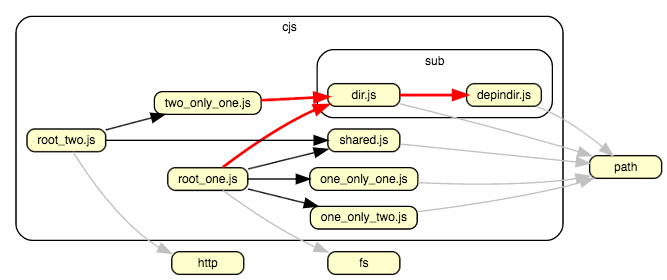
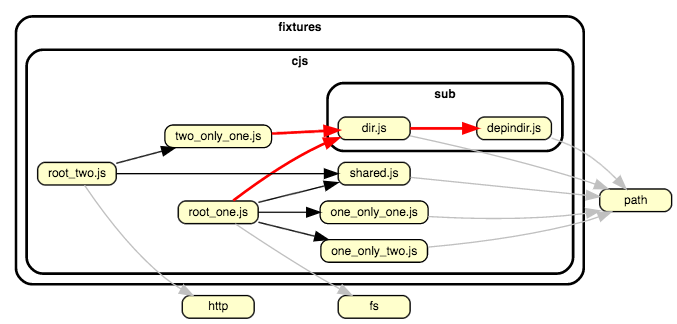
tweaks the dot output for better visual grepping
makes lines of clusters bolder, and uses a bold font for their labels

Changed region(s): [[0.0, 0.0286, 1.0, 1.0], [0.1499, 0.6571, 0.1799, 0.7429]]

diff --git a/test/report.dotReporter.spec.js b/test/report.dotReporter.spec.js
@@ -15,16 +15,16 @@ const elFixture = `digraph "dependency-cruiser output"{
     node [shape=box style="rounded, filled" fillcolor="#ffffcc" height=0.2 fontname=Helvetica fontsize=9]
     edge [color=black arrowhead=normal fontname="Helvetica" fontsize="9"]
 
-    subgraph "cluster_/node_modules" {label="node_modules" style="rounded" subgraph "cluster_/node_modules/somemodule" {label="somemodule" style="rounded" subgraph "cluster_/node_modules/somemodule/node_modules" {label="node_modules" style="rounded" subgraph "cluster_/node_modules/somemodule/node_modules/someothermodule" {label="someothermodule" style="rounded" "node_modules/somemodule/node_modules/someothermodule/main.js" [label="main.js"] } } } }
-    subgraph "cluster_/node_modules" {label="node_modules" style="rounded" subgraph "cluster_/node_modules/somemodule" {label="somemodule" style="rounded" subgraph "cluster_/node_modules/somemodule/src" {label="src" style="rounded" "node_modules/somemodule/src/moar-javascript.js" [label="moar-javascript.js"] } } }
-    subgraph "cluster_/node_modules" {label="node_modules" style="rounded" subgraph "cluster_/node_modules/somemodule" {label="somemodule" style="rounded" subgraph "cluster_/node_modules/somemodule/src" {label="src" style="rounded" "node_modules/somemodule/src/somemodule.js" [label="somemodule.js"] } } }
+    subgraph "cluster_/node_modules" {label="node_modules" fontname="Helvetica-bold" style="rounded,bold" subgraph "cluster_/node_modules/somemodule" {label="somemodule" fontname="Helvetica-bold" style="rounded,bold" subgraph "cluster_/node_modules/somemodule/node_modules" {label="node_modules" fontname="Helvetica-bold" style="rounded,bold" subgraph "cluster_/node_modules/somemodule/node_modules/someothermodule" {label="someothermodule" fontname="Helvetica-bold" style="rounded,bold" "node_modules/somemodule/node_modules/someothermodule/main.js" [label="main.js"] } } } }
+    subgraph "cluster_/node_modules" {label="node_modules" fontname="Helvetica-bold" style="rounded,bold" subgraph "cluster_/node_modules/somemodule" {label="somemodule" fontname="Helvetica-bold" style="rounded,bold" subgraph "cluster_/node_modules/somemodule/src" {label="src" fontname="Helvetica-bold" style="rounded,bold" "node_modules/somemodule/src/moar-javascript.js" [label="moar-javascript.js"] } } }
+    subgraph "cluster_/node_modules" {label="node_modules" fontname="Helvetica-bold" style="rounded,bold" subgraph "cluster_/node_modules/somemodule" {label="somemodule" fontname="Helvetica-bold" style="rounded,bold" subgraph "cluster_/node_modules/somemodule/src" {label="src" fontname="Helvetica-bold" style="rounded,bold" "node_modules/somemodule/src/somemodule.js" [label="somemodule.js"] } } }
     "one_only_one.js"
     "one_only_two.js"
     "root_one.js"
     "root_two.js"
     "shared.js"
-    subgraph "cluster_/sub" {label="sub" style="rounded" "sub/depindir.js" [label="depindir.js"] }
-    subgraph "cluster_/sub" {label="sub" style="rounded" "sub/dir.js" [label="dir.js"] }
+    subgraph "cluster_/sub" {label="sub" fontname="Helvetica-bold" style="rounded,bold" "sub/depindir.js" [label="depindir.js"] }
+    subgraph "cluster_/sub" {label="sub" fontname="Helvetica-bold" style="rounded,bold" "sub/dir.js" [label="dir.js"] }
     "two_only_one.js"
 
     "node_modules/somemodule/src/somemodule.js" -> "node_modules/somemodule/src/moar-javascript.js" [color="orange" penwidth=2.0]

diff --git a/src/report/dot.template.js b/src/report/dot.template.js
@@ -22,7 +22,7 @@ templates['dot.template.hbs'] = template({"1":function(container,depth0,helpers,
     + ((stack1 = ((helper = (helper = helpers.aggregateSnippet || (depth0 != null ? depth0.aggregateSnippet : depth0)) != null ? helper : alias2),(typeof helper === alias3 ? helper.call(alias1,{"name":"aggregateSnippet","hash":{},"data":data}) : helper))) != null ? stack1 : "")
     + "\" {label=\""
     + ((stack1 = ((helper = (helper = helpers.snippet || (depth0 != null ? depth0.snippet : depth0)) != null ? helper : alias2),(typeof helper === alias3 ? helper.call(alias1,{"name":"snippet","hash":{},"data":data}) : helper))) != null ? stack1 : "")
-    + "\" style=\"rounded\" ";
+    + "\" fontname=\"Helvetica-bold\" style=\"rounded,bold\" ";
 },"5":function(container,depth0,helpers,partials,data) {
     return " }";
 },"7":function(container,depth0,helpers,partials,data) {
